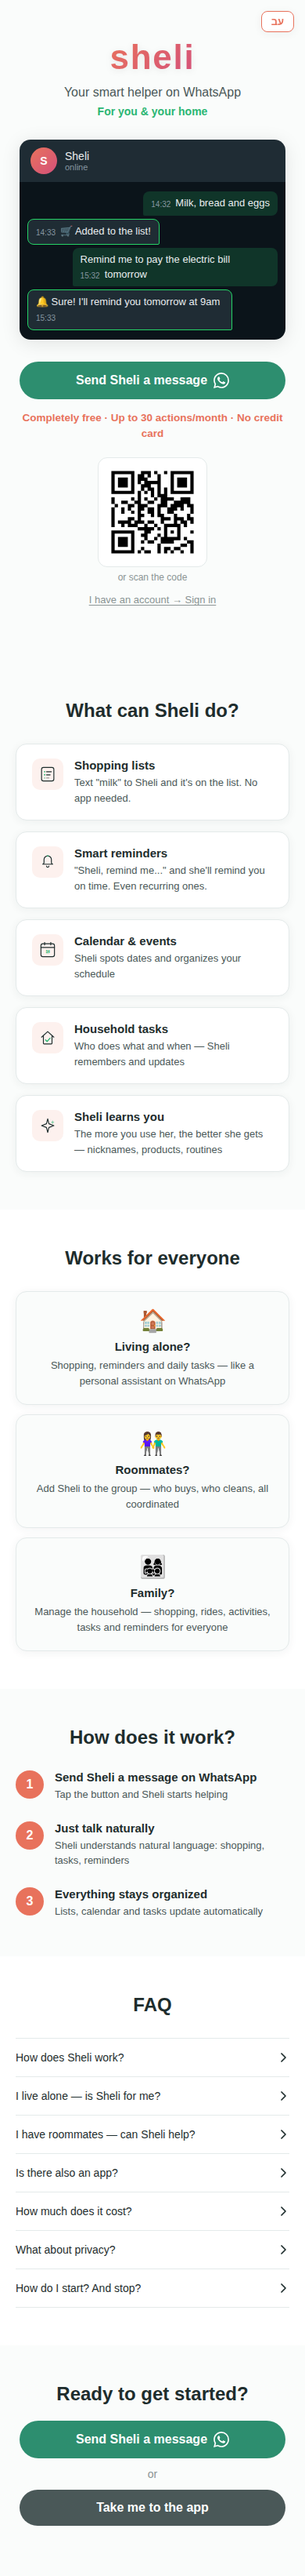
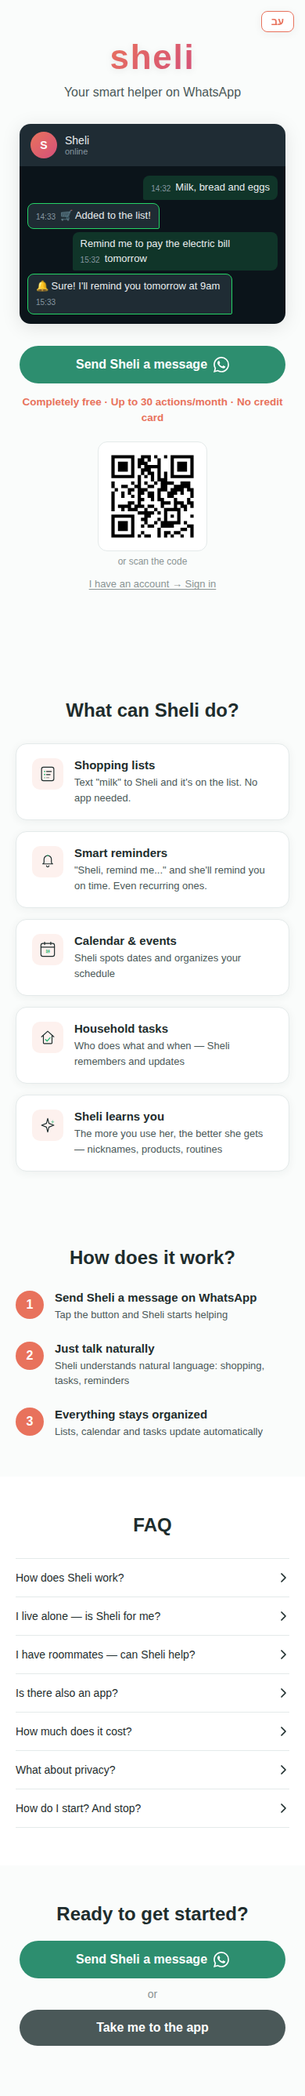
feat: remove personas section and subline from landing page
Per feedback: the "שלי מתאימה לכולם" personas section (alone/roommates/family)
doesn't add enough value. The "לכם ולבית" subline is redundant — the tagline
"העוזרת החכמה שלכם בווטסאפ" speaks for itself.

Updated preview screenshots.

https://claude.ai/code/session_01Q1JpJbQf1Zpp2Q6Tpo9kpg

diff --git a/src/components/LandingPage.jsx b/src/components/LandingPage.jsx
@@ -21,7 +21,6 @@ const CONTENT = {
     dir: "rtl",
     font: "'Heebo', sans-serif",
     tagline: "העוזרת החכמה שלכם בווטסאפ",
-    subline: "לכם ולבית",
     mockChatName: "שלי",
     mockStatus: "מחוברת",
     mockAvatar: "ש",
@@ -42,12 +41,6 @@ const CONTENT = {
       { Icon: CalendarFeatureIcon, title: "יומן ואירועים", subtitle: "שלי מזהה תאריכים ומארגנת את היומן שלכם" },
       { Icon: ChoresFeatureIcon, title: "מטלות בית", subtitle: "מי עושה מה ומתי — שלי זוכרת ומעדכנת" },
       { Icon: LearningFeatureIcon, title: "שלי לומדת אתכם", subtitle: "ככל שתשתמשו יותר, שלי מבינה אתכם טוב יותר — כינויים, מוצרים, הרגלים" },
-    ],
-    personasTitle: "שלי מתאימה לכולם",
-    personas: [
-      { emoji: "\u{1F3E0}", title: "גרים לבד?", text: "קניות, תזכורות וסידורים — כמו עוזרת אישית בווטסאפ" },
-      { emoji: "\u{1F46B}", title: "עם שותפים?", text: "הוסיפו את שלי לקבוצה — מי קונה, מי מנקה, הכל מתואם" },
-      { emoji: "\u{1F468}\u200D\u{1F469}\u200D\u{1F467}\u200D\u{1F466}", title: "משפחה?", text: "ניהול הבית — קניות, הסעות, חוגים, מטלות ותזכורות לכל המשפחה" },
     ],
     stepsTitle: "איך זה עובד?",
     steps: [
@@ -74,7 +67,6 @@ const CONTENT = {
     dir: "ltr",
     font: "'Nunito', sans-serif",
     tagline: "Your smart helper on WhatsApp",
-    subline: "For you & your home",
     mockChatName: "Sheli",
     mockStatus: "online",
     mockAvatar: "S",
@@ -95,12 +87,6 @@ const CONTENT = {
       { Icon: CalendarFeatureIcon, title: "Calendar & events", subtitle: "Sheli spots dates and organizes your schedule" },
       { Icon: ChoresFeatureIcon, title: "Household tasks", subtitle: "Who does what and when \u2014 Sheli remembers and updates" },
       { Icon: LearningFeatureIcon, title: "Sheli learns you", subtitle: "The more you use her, the better she gets \u2014 nicknames, products, routines" },
-    ],
-    personasTitle: "Works for everyone",
-    personas: [
-      { emoji: "\u{1F3E0}", title: "Living alone?", text: "Shopping, reminders and daily tasks \u2014 like a personal assistant on WhatsApp" },
-      { emoji: "\u{1F46B}", title: "Roommates?", text: "Add Sheli to the group \u2014 who buys, who cleans, all coordinated" },
-      { emoji: "\u{1F468}\u200D\u{1F469}\u200D\u{1F467}\u200D\u{1F466}", title: "Family?", text: "Manage the household \u2014 shopping, rides, activities, tasks and reminders for everyone" },
     ],
     stepsTitle: "How does it work?",
     steps: [
@@ -153,7 +139,6 @@ export default function LandingPage({ onGetStarted, onSignIn }) {
       <section className="landing-hero">
         <h1 className="landing-wordmark">sheli</h1>
         <p className="landing-tagline">{c.tagline}</p>
-        <p className="landing-subline">{c.subline}</p>
 
         {/* WhatsApp Mock — 1:1 personal chat */}
         <div className="wa-mock">
@@ -210,20 +195,6 @@ export default function LandingPage({ onGetStarted, onSignIn }) {
                 <h3>{f.title}</h3>
                 <p>{f.subtitle}</p>
               </div>
-            </div>
-          ))}
-        </div>
-      </section>
-
-      {/* ─── Personas — "Works for everyone" ─── */}
-      <section className="landing-personas">
-        <h2 className="landing-section-title">{c.personasTitle}</h2>
-        <div className="persona-cards">
-          {c.personas.map((p, i) => (
-            <div key={i} className="persona-card">
-              <span className="persona-emoji">{p.emoji}</span>
-              <h3>{p.title}</h3>
-              <p>{p.text}</p>
             </div>
           ))}
         </div>

diff --git a/src/styles/landing.css b/src/styles/landing.css
@@ -60,19 +60,10 @@
   font-size: 16px;
   font-weight: 400;
   color: var(--warm);
-  margin: 8px 0 4px;
+  margin: 8px 0 28px;
   text-align: center;
   max-width: 320px;
   line-height: 1.5;
-}
-
-.landing-subline {
-  font-size: 14px;
-  font-weight: 600;
-  color: var(--accent, #2AB673);
-  margin: 0 0 28px;
-  text-align: center;
-  letter-spacing: 0;
 }
 
 /* ─── WhatsApp Mock — 1:1 personal chat ─── */
@@ -328,53 +319,6 @@
   line-height: 1.5;
 }
 
-/* ─── Personas — "Works for everyone" ─── */
-
-.landing-personas {
-  padding: 48px 20px;
-  display: flex;
-  flex-direction: column;
-  align-items: center;
-  background: var(--white);
-}
-
-.persona-cards {
-  display: flex;
-  flex-direction: column;
-  gap: 12px;
-  width: 100%;
-  max-width: 400px;
-}
-
-.persona-card {
-  background: var(--cream, #FAFCFB);
-  border: 1px solid var(--border);
-  border-radius: 14px;
-  padding: 20px;
-  text-align: center;
-  box-shadow: var(--sh);
-}
-
-.persona-emoji {
-  font-size: 28px;
-  display: block;
-  margin-bottom: 8px;
-}
-
-.persona-card h3 {
-  margin: 0;
-  font-size: 15px;
-  font-weight: 600;
-  color: var(--dark);
-}
-
-.persona-card p {
-  margin: 6px 0 0;
-  font-size: 13px;
-  color: var(--warm);
-  line-height: 1.5;
-}
-
 /* ─── How It Works ─── */
 
 .landing-steps {
@@ -560,15 +504,6 @@
     flex-direction: column;
     align-items: center;
     text-align: center;
-  }
-
-  .persona-cards {
-    flex-direction: row;
-    max-width: 720px;
-  }
-
-  .persona-card {
-    flex: 1;
   }
 
   .steps-list {
